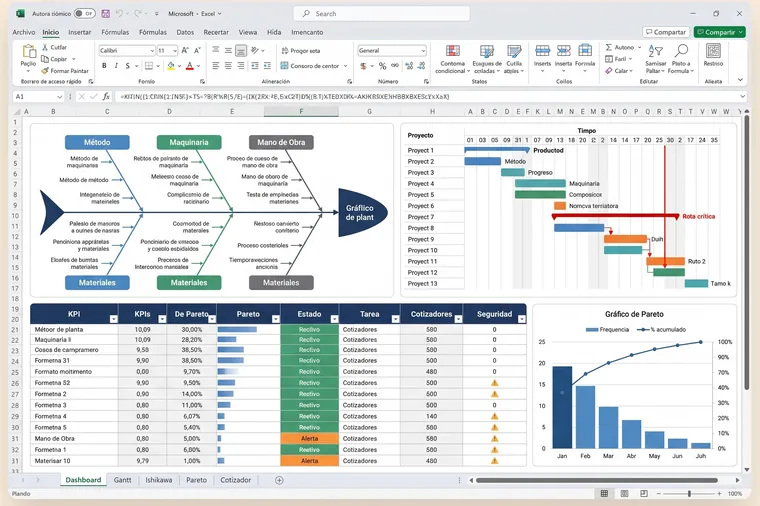
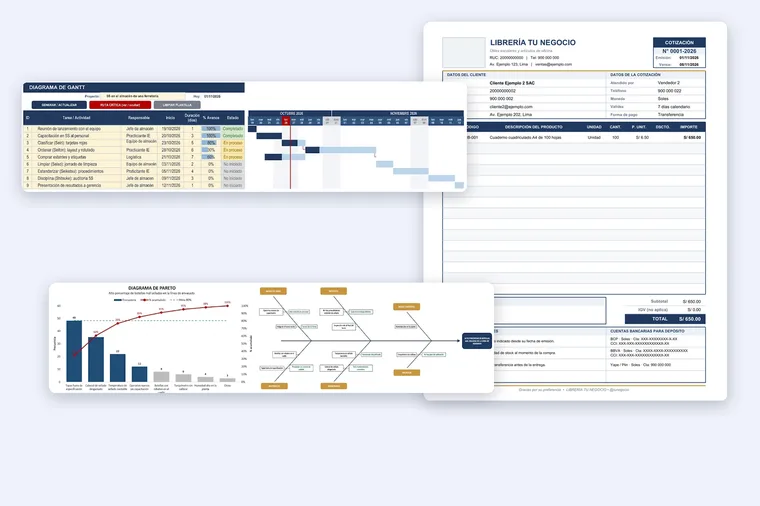
Plantillas: capturas reales en catálogo, portada, detalle, Recursos e Inicio
Claude-Session: https://claude.ai/code/session_01PDpecnC4qJskpxKXANRDtd

diff --git a/plantillas/index.html b/plantillas/index.html
@@ -24,7 +24,7 @@ description: Plantillas de Excel con macros para Ishikawa, Pareto, Gantt y cotiz
     <div class="pl-hero-vis" aria-hidden="true">
       <div class="pl-screen">
         <div class="pl-screen-top"><span class="dots"><i></i><i></i><i></i></span><span>Gantt_con_ruta_critica.xlsm</span></div>
-        <div class="pl-screen-body">{% include thumb-gantt.html %}</div>
+        {% assign pg = site.data.plantillas | where: "id", "gantt" | first %}<div class="pl-screen-body">{% if pg.captura %}<img src="{{ pg.captura | relative_url }}" alt="Captura real de la plantilla {{ pg.nombre }}" width="1280" height="800" loading="lazy">{% else %}{% include {{ pg.thumb }} %}{% endif %}</div>
       </div>
       <div class="pl-float f1"><span class="pl-ok">✓</span><span><b>Archivo enviado</b><small>al confirmar tu pago</small></span></div>
       <div class="pl-float f2"><span class="pl-ico">{% include icon.html n="chart" %}</span><span><b>Ruta crítica</b><small>en 1 clic</small></span></div>
@@ -48,7 +48,7 @@ description: Plantillas de Excel con macros para Ishikawa, Pareto, Gantt y cotiz
       <a class="pl-card" href="{{ '/plantillas/' | append: p.id | append: '/' | relative_url }}" data-cat="{{ p.tag | slugify }}">
         <div class="pl-card-vis">
           {% if p.destacada %}<span class="pl-badge-card">Más vendida</span>{% endif %}
-          <div class="pl-card-screen"><div class="pl-screen-top"><span class="dots"><i></i><i></i><i></i></span><span>.xlsm</span></div><div class="pl-panel-img">{% include {{ p.thumb }} %}</div></div>
+          <div class="pl-card-screen"><div class="pl-screen-top"><span class="dots"><i></i><i></i><i></i></span><span>.xlsm</span></div><div class="pl-panel-img">{% if p.captura %}<img src="{{ p.captura | replace: '.webp', '-640.webp' | relative_url }}" alt="Captura real de la plantilla {{ p.nombre }}" width="640" height="400" loading="lazy">{% else %}{% include {{ p.thumb }} %}{% endif %}</div></div>
         </div>
         <div class="pl-card-body">
           <span class="pl-tag">{{ p.tag }}</span>

diff --git a/recursos/index.html b/recursos/index.html
@@ -49,7 +49,7 @@ description: Cursos gratuitos con sus clases ordenadas y plantillas de Excel par
         <div class="ctas"><a class="btn pl-btn-verde" href="{{ '/plantillas/' | relative_url }}">Ver plantillas y precios →</a></div>
         <div class="rc-sellos claro"><div><b>{{ site.data.plantillas.size }}</b><small>PLANTILLAS</small></div><div><b>Pago único</b><small>SIN SUSCRIPCIÓN</small></div><div><b>Yape · Plin</b><small>CONFIRMADO A MANO</small></div></div>
       </div>
-      <div class="rc-vis"><div class="rc-marco claro"><img src="{{ '/assets/img/recursos/plantillas.webp' | relative_url }}" alt="Plantilla de Excel con diagrama de Ishikawa, Gantt y diagrama de Pareto" width="1400" height="931" loading="lazy" decoding="async"></div></div>
+      <div class="rc-vis"><div class="rc-marco claro"><img src="{{ '/assets/img/recursos/plantillas.webp' | relative_url }}" alt="Capturas reales de las plantillas: Gantt, Pareto con Ishikawa y cotizador" width="1400" height="931" loading="lazy" decoding="async"></div></div>
     </div>
   </div>
 </section>

diff --git a/index.html b/index.html
@@ -101,7 +101,7 @@ title: Ingeniería Industrial explicada fácil
       <h3>Plantillas de Excel</h3>
       <p>Ishikawa, Pareto, Gantt con ruta crítica y cotizador, listas para usar: botones claros, instrucciones y fórmulas protegidas.</p>
       <span class="ap-link">Ver plantillas →</span>
-      <div class="ap-img"><img src="{{ '/assets/img/recursos/plantillas-760.webp' | relative_url }}" alt="Plantilla de Excel con diagrama de Ishikawa, Gantt y diagrama de Pareto" width="760" height="506" decoding="async"></div>
+      <div class="ap-img"><img src="{{ '/assets/img/recursos/plantillas-760.webp' | relative_url }}" alt="Capturas reales de las plantillas: Gantt, Pareto con Ishikawa y cotizador" width="760" height="506" decoding="async"></div>
     </a>
   </div>
 </div></section>

diff --git a/_layouts/plantilla.html b/_layouts/plantilla.html
@@ -14,8 +14,8 @@ comprar: true
         <p class="lead">{{ p.beneficio }}</p>
       </div>
       <div class="video">
-        <div class="thumb">{% include {{ p.thumb }} %}</div>
-        <span class="pill-note">Aquí irá el video de la plantilla funcionando</span>
+        <div class="thumb">{% if p.captura %}<img src="{{ p.captura | relative_url }}" alt="Captura real de la plantilla {{ p.nombre }}" width="1280" height="800" loading="lazy">{% else %}{% include {{ p.thumb }} %}{% endif %}</div>
+        <span class="pill-note">{% if p.captura %}Captura real de la plantilla{% else %}Aquí irá el video de la plantilla funcionando{% endif %}</span>
       </div>
       <div class="stack" style="gap:12px">
         <h2 style="font-size:28px">Qué incluye</h2>

diff --git a/_includes/prod-card.html b/_includes/prod-card.html
@@ -1,5 +1,5 @@
 <a class="card prod card-link" href="{{ '/plantillas/' | append: include.p.id | append: '/' | relative_url }}">
-  <div class="thumb">{% include {{ include.p.thumb }} %}</div>
+  {% assign pp = include.p %}<div class="thumb">{% if pp.captura %}<img src="{{ pp.captura | replace: '.webp', '-640.webp' | relative_url }}" alt="Captura real de la plantilla {{ pp.nombre }}" width="640" height="400" loading="lazy">{% else %}{% include {{ pp.thumb }} %}{% endif %}</div>
   <span class="tag">{{ include.p.tag }}</span>
   <h3>{{ include.p.nombre }}</h3>
   <p>{{ include.p.desc }}</p>

diff --git a/assets/css/style.css b/assets/css/style.css
@@ -1642,3 +1642,5 @@ a.mc-node:focus-visible{outline:3px solid #3e57da;outline-offset:4px}
 @media (max-width:960px){.ccg{grid-template-columns:repeat(2,minmax(0,1fr))}}
 @media (max-width:600px){.ccg{grid-template-columns:minmax(0,1fr)}}
 @media (prefers-reduced-motion:reduce){.cc{transition:none}.cc:hover{transform:none}}
+/* Capturas reales de plantillas */
+.pl-panel-img>img,.pl-screen-body>img,.thumb>img{display:block;width:100%;height:100%;object-fit:cover}
